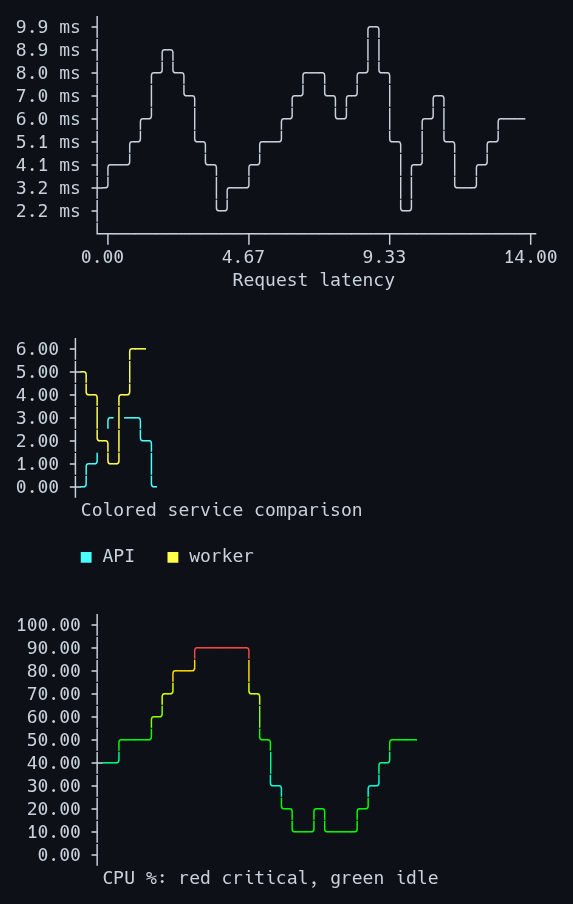
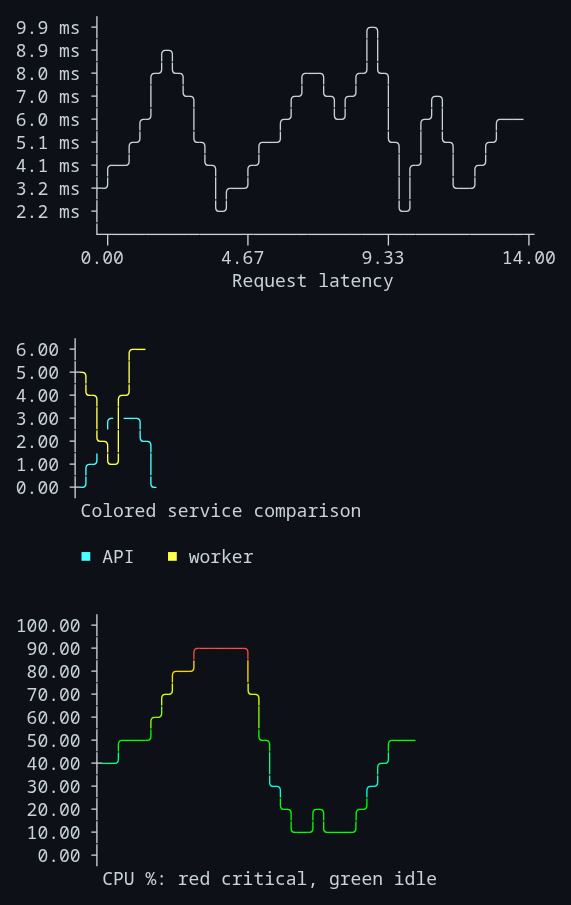
Fresh images cut animated gifs

diff --git a/README.md b/README.md
@@ -9,8 +9,8 @@ runtime or external plotting backend. Importing `terminal_graph` has no side
 effects and does not change terminal state.
 
 <p align="center">
-  <a href="examples/live_graph.nim"><img src="examples/images/live_graph2.gif" alt="Animated live service metrics graph" width="45%"></a>
-  <a href="examples/streaming_line_graph.nim"><img src="examples/images/streaming_line_graph2.gif" alt="Animated streaming API latency graph" width="51.45%"></a>
+  <a href="examples/live_graph.nim"><img src="examples/images/live_graph2.gif" alt="Animated live service metrics graph" height="260"></a>
+  <a href="examples/streaming_line_graph.nim"><img src="examples/images/streaming_line_graph2.gif" alt="Animated streaming API latency graph" height="260"></a>
 </p>
 <p align="center"><a href="#examples">More examples</a></p>
 
